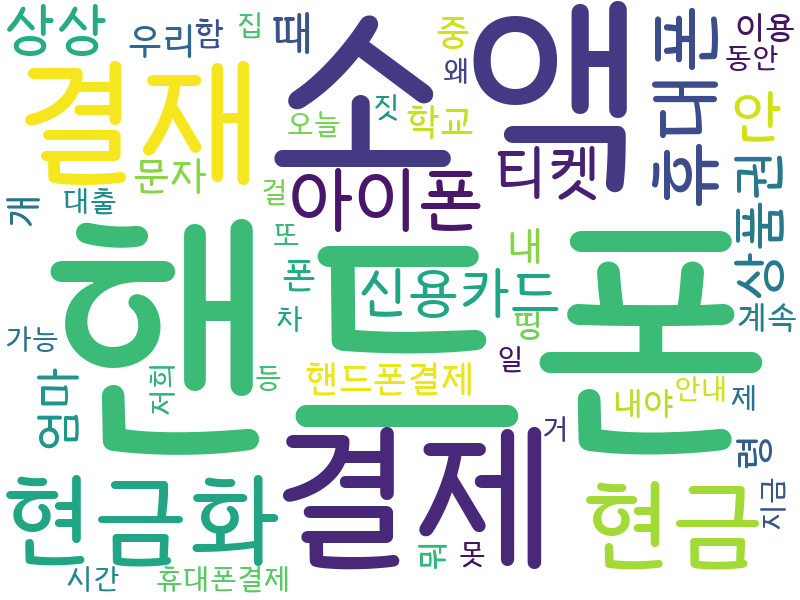
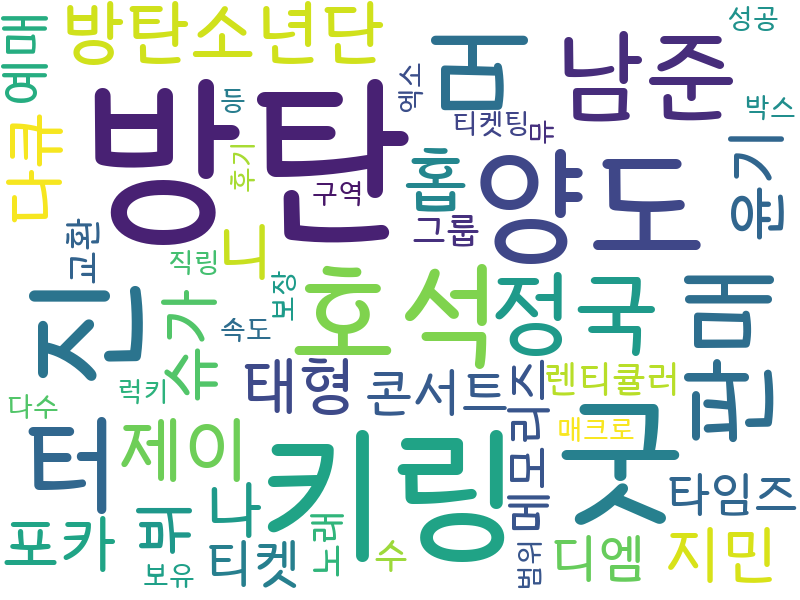
sentiment_analysis

diff --git a/showyou/templates/showyou/loading.html b/showyou/templates/showyou/loading.html
@@ -1,0 +1,167 @@
+<!DOCTYPE HTML>
+
+<!-- static 파일을 불러 오기 위해서 -->
+{% load static %}
+
+<html>
+	<head>
+		<title>ShowYou</title>
+		<meta charset="utf-8" />
+		<meta name="viewport" content="width=device-width, initial-scale=1" />
+		<link rel="stylesheet" href="{% static 'showyou/assets/css/main.css' %}" />
+	</head>
+
+	<body class="subpage">
+		
+		<div id="loading">
+			<img SRC="https://img1.daumcdn.net/thumb/R1920x0/?fname=http%3A%2F%2Fcfile1.uf.tistory.com%2Fimage%2F9950163C5AFE32810A7310">    
+		</div>
+
+		<!-- Header -->
+			<header id="header">
+				<nav class="left">
+					<a href="#menu"><span>Menu</span></a>
+				</nav>
+				<a href="../" class="logo">ShowYou</a>
+				<!-- <nav class="right">
+					<a href="#" class="button alt">Log in</a>
+				</nav> -->
+			</header>
+
+		<!-- Menu -->
+			<nav id="menu">
+				<ul class="links">
+					<li><a href="../">Home</a></li>
+					<li><a href="">Generic</a></li>
+					<li><a href="elements/">Elements</a></li>
+				</ul>
+				<!-- <ul class="actions vertical">
+					<li><a href="#" class="button fit">Login</a></li>
+				</ul> -->
+			</nav>
+		<!-- Navigater
+			<ul id="hi">
+				<li><a class="active" href="../instagram">전체</a></li>
+				<li><a class="active" href="">개인</a></li>
+			  </ul> -->
+		<!-- Main -->
+			<section id="main" class="wrapper">
+				<div class="inner">
+					<header class="align-center">
+						<h1>결과</h1>
+						<p>워드클라우드와 감성분석</p>
+					</header>
+
+					<!-- 검색창 -->
+					<style>
+						ul#hi {
+							list-style-type: none;
+							margin: 0;
+							padding: 0;
+							background-color: rgb(226, 107, 77);
+						}
+
+						ul:after {
+							content: '';
+							display: block;
+							clear: both;
+						}
+
+						.active {
+							float: left;
+						}
+
+						.active {
+							display: block;
+							color: white;
+							text-align: center;
+							padding: 14px 16px;
+							text-decoration: none;
+						}
+
+						li a:hover:not(.active) {
+							background-color: #111;
+						}
+
+
+						.input_text {
+							/* width: 348px; height: 21px; */
+							margin: 6px 0 0 9px;
+							border: 0;
+							line-height: 21px;
+							font-weight: bold;
+							font-size: 16px;
+							outline: none;
+						}
+						.sch_smit {
+							position: relative;
+							left: 500px;
+							top: 25px;
+							margin: 0; border: 1;
+							vertical-align: top;
+							background: #200400;
+							color: white;
+							font-weight: bold;
+
+							border-radius: 1px;
+							cursor: pointer;
+						}
+						.sch_smit:hover {
+							background: #56C82C;
+						}
+
+						.div#mid{
+							text-align: center;
+						}
+					</style>
+
+					<span class='green_window'>
+					<!-- <form method="get">
+						<input id=text type="text" class='input_text' placeholder="키워드 입력" name="search_keyword" onkeydown="enterSearch()"/></span>
+						<input type="submit" class='sch_smit'style="width:60pt;height:30pt;" value="검색" text-align= center; onclick="myFunction()"/>
+					</form> -->
+					<!-- <% String a = request.get%> -->
+					<h1>당신이 검색한 '{{keyword}}'에 대한 분석 결과입니다.</h1>
+					<div id='mid'>
+						<img src="{% static 'showyou/images/w.jpg' %}">
+					</div>
+					<div>
+						<h1>포스트의 내용에서 가장 많이 나타나는 단어 순서대로 크기가 큰 글자 단어로 나타나게 됩니다.</h1>
+					</div>
+
+					<div id='mid'>
+						<img src="{% static 'showyou/images/senti.jpg' %}">
+					</div>
+					<div>
+						<h1>관심사가 클수록 큰 원이며 긍정은 파란색,중립은 녹색,부정은 빨간색입니다.</h1>
+
+					</div>
+
+
+
+				</div>
+			</section>
+
+		<!-- Footer -->
+			<footer id="footer">
+				<div class="inner">
+					<h2>Get In Touch</h2>
+					<ul class="actions">
+						<li><span class="icon fa-phone"></span> <a href="#">(000) 000-0000</a></li>
+						<li><span class="icon fa-envelope"></span> <a href="#">information@untitled.tld</a></li>
+						<li><span class="icon fa-map-marker"></span> 123 Somewhere Road, Nashville, TN 00000</li>
+					</ul>
+				</div>
+				<div class="copyright">
+					&copy; Untitled. Design <a href="https://templated.co">TEMPLATED</a>. Images <a href="https://unsplash.com">Unsplash</a>.
+				</div>
+			</footer>
+
+		<!— Scripts —>
+		<script src="{% static 'showyou/assets/js/jquery.min.js' %} "></script>
+		<script src="{% static 'showyou/assets/js/jquery.scrolly.min.js' %} "></script>
+		<script src="{% static 'showyou/assets/js/skel.min.js' %} "></script>
+		<script src="{% static 'showyou/assets/js/util.js' %} "></script>
+		<script src="{% static 'showyou/assets/js/main.js' %} "></script>
+	</body>
+</html>

diff --git a/showyou/static/showyou/assets/js/main.js b/showyou/static/showyou/assets/js/main.js
@@ -62,4 +62,15 @@
 
 	});
 
+	// 여기부터 추가
+	function onloadevent(){
+		document.getElementById("loading_oh").style.visibility="hidden"
+	}
+	
+	window.onload=function()
+	{
+		onloadevent();
+	}
+	
+
 })(jQuery);

diff --git a/showyou/sentiment_analysis.py b/showyou/sentiment_analysis.py
@@ -26,7 +26,7 @@ plt.switch_backend('agg')
 #리스트 전부 가져오기
 def Sentiment_Analysis():
 
-    post_list = mongo_connection.post_category_find()
+    post_list = mongo_connection.post_find()
     sentiment_list = mongo_connection.sentiment_analysis_result_find()
     textmining_list = mongo_connection.textmining_result_find()
 
@@ -102,29 +102,8 @@ def Sentiment_Analysis():
     input_count = dict(sorted(count.items(), key=lambda key: key[1],reverse=True)[0:10])
     input_keywords=list(count.keys())
 
-
     print(input_keywords)
     print(input_count)
-
-
-
-
-'''
-    input_keywords = []
-    input_count = []
-    for key,value in count.items():
-        if(value > 3):  #원의 갯수 여기를 바꿔주기
-            input_keywords.append(key)
-            input_count.append(value)
-    input_sentiment = []
-    for keyword in input_keywords:
-        for key,value in sentiment.items():
-            if(keyword == key):
-                input_sentiment.append(value)
-    print(input_keywords)
-    print(input_count)
-    print(input_sentiment)
-    '''
 
     #원그래프 만들기 --------------------------------------------------------
 
